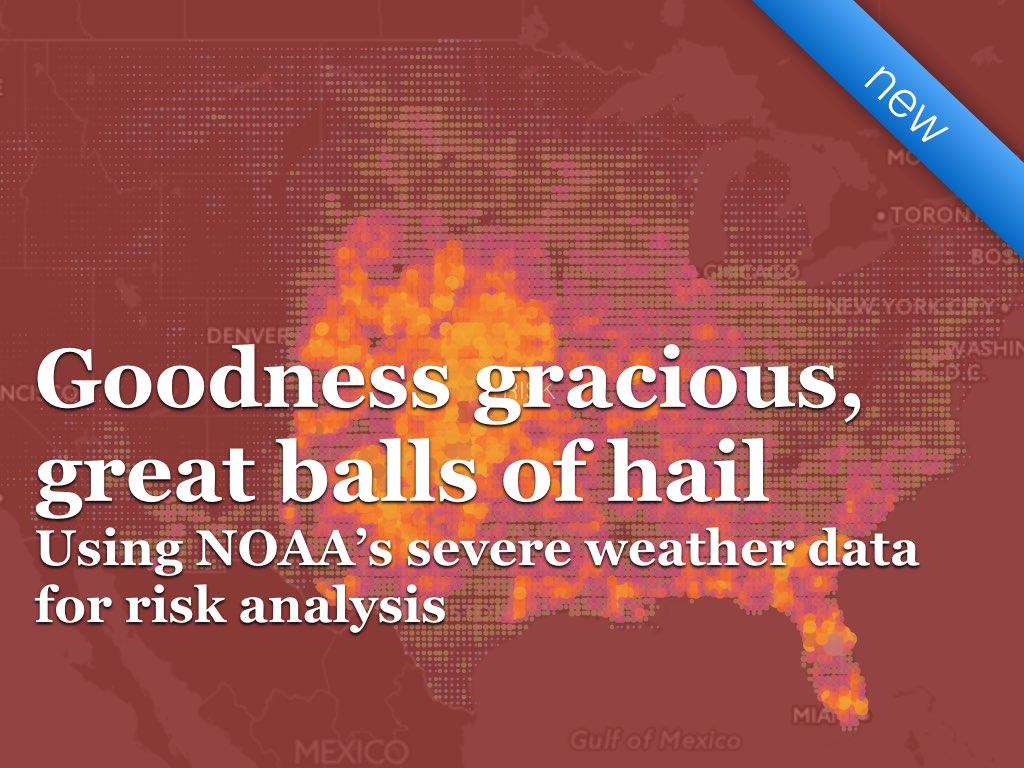
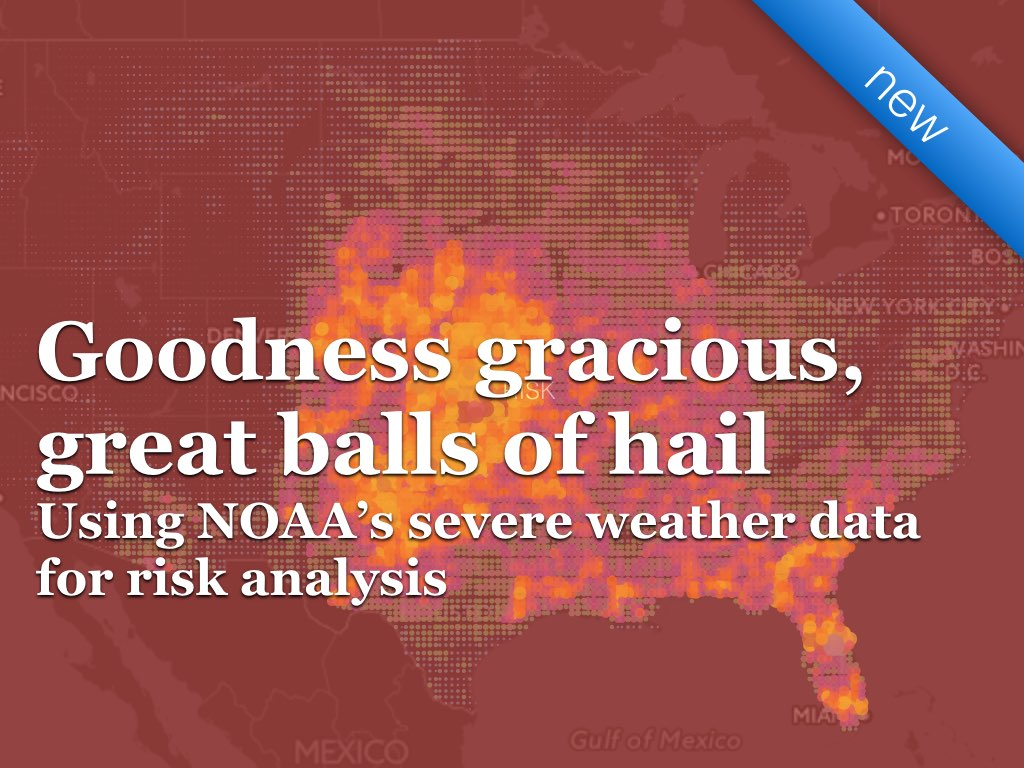
Revised background

Changed region(s): [[0.0312, 0.4062, 0.9062, 0.8438]]

diff --git a/css/creative.css b/css/creative.css
@@ -168,12 +168,12 @@ aside {
 
 .backie {
     position: relative;
-   
-    height:100%;
+    width:100%;
+    height:80%;
     min-height: auto;
     text-align: center;
     color: #fff;
-    background-image: url(../img/Slide.jpg);
+    background-image: url(../img/ft-animated.gif);
     background-position: center;
     -webkit-background-size: cover;
     -moz-background-size: cover;

diff --git a/css/parallax.css b/css/parallax.css
@@ -1,9 +1,10 @@
 .scroll {
      /*Set a css background */
-    background:url(../img/Slide.jpg) fixed;
+    background:url(../img/ft-animated.gif) fixed;
     
     /*Dont mind the rest*/
     position:relative;
+    width:100%;
     height:80%;
 
     -webkit-background-size: cover;
